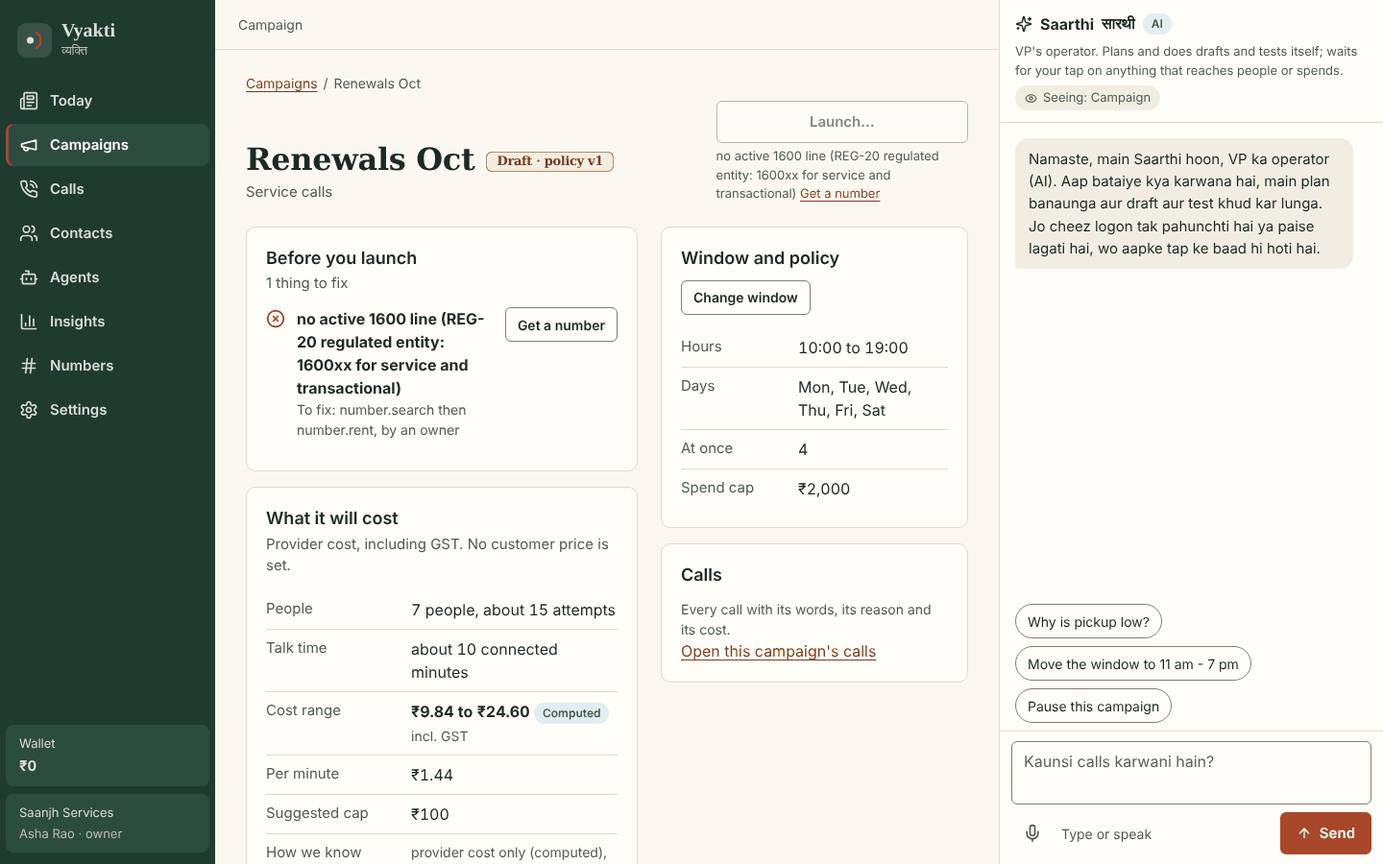
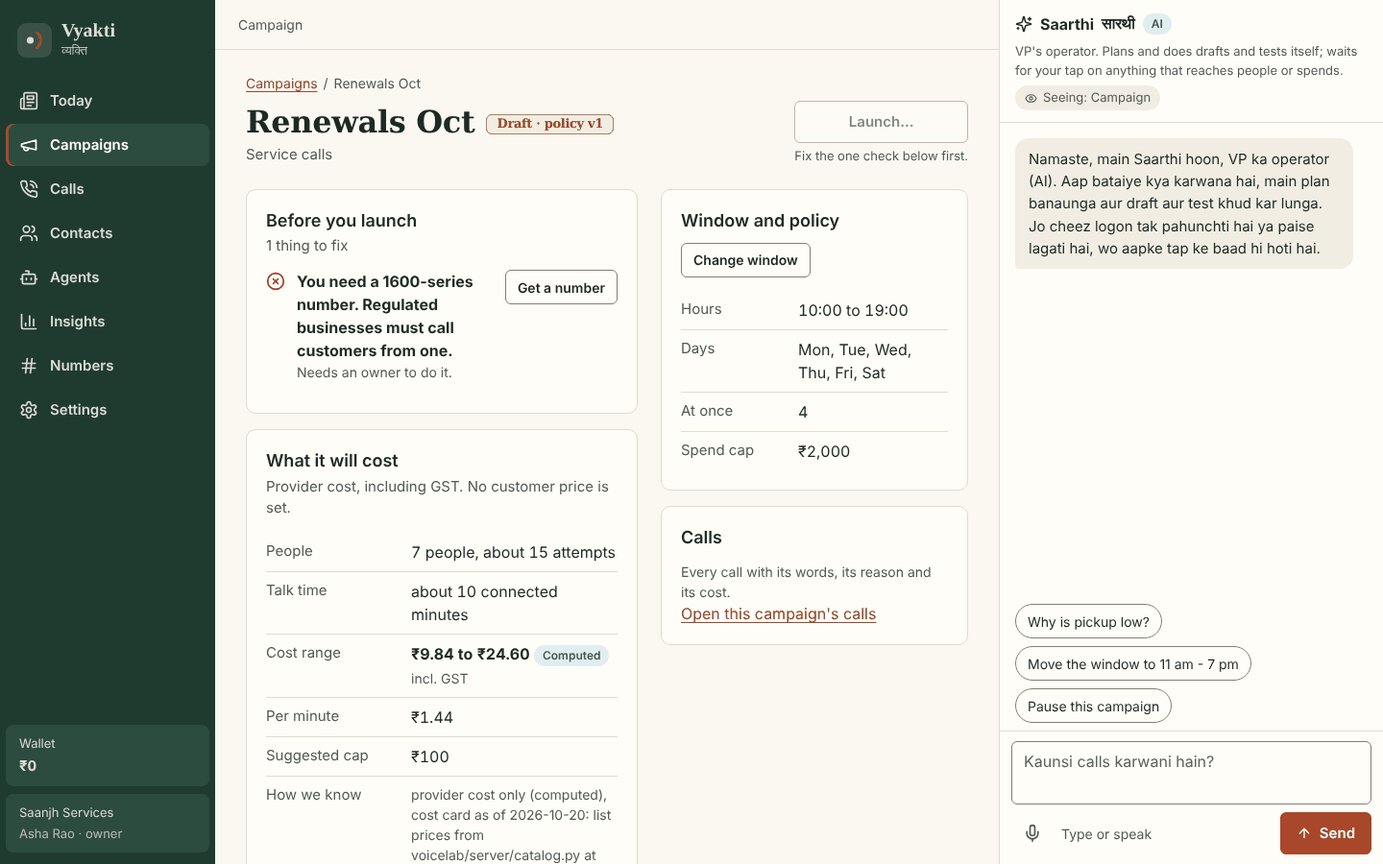
Web: copy pass, no developer text on any screen (tool ids, argument names, codes, milli-units), with a browser test that scans every screen
Claude-Session: https://claude.ai/code/session_014EmCLozX1VcXabqUjBazhN

diff --git a/product/web/src/labels.ts b/product/web/src/labels.ts
@@ -1,0 +1,93 @@
+// Plain words for what the server says in developer terms. Rule: no tool id, raw argument name, internal code or milli-unit ever
+// reaches a person. Everything here is a fallback for text the server has not yet made human; the server's own plain text wins.
+import { inr, phone as fmtPhone } from './format.ts';
+import type { Blocker } from './types.ts';
+
+/** A short human title per tool, for approval cards and receipts. `ask` = what the card asks, `done` = what the receipt says. */
+export const TOOL_LABEL: Record<string, { ask: string; done: string }> = {
+  'wallet.topup': { ask: 'Add money to the wallet', done: 'Money added to the wallet' },
+  'audience.create': { ask: 'Save an audience', done: 'Audience saved' },
+  'source.commit': { ask: 'Import this list', done: 'List imported' },
+  'campaign.launch': { ask: 'Launch the campaign', done: 'Campaign launched' },
+  'campaign.pause': { ask: 'Pause the campaign', done: 'Campaign paused' },
+  'campaign.resume': { ask: 'Resume the campaign', done: 'Campaign resumed' },
+  'campaign.stop': { ask: 'Stop the campaign', done: 'Campaign stopped' },
+  'campaign.draft': { ask: 'Save the campaign draft', done: 'Campaign draft saved' },
+  'campaign.window.widen': { ask: 'Widen the calling window', done: 'Calling window widened' },
+  'campaign.window.narrow': { ask: 'Narrow the calling window', done: 'Calling window narrowed' },
+  'policy.window.set': { ask: 'Change the calling hours', done: 'Calling hours changed' },
+  'version.publish': { ask: 'Publish this agent', done: 'Agent published' },
+  'brief.edit': { ask: 'Change the agent', done: 'Agent changed' },
+  'stack.set': { ask: 'Choose a voice stack', done: 'Voice stack chosen' },
+  'agent.create': { ask: 'Create an agent', done: 'Agent created' },
+  'number.rent': { ask: 'Rent a number', done: 'Number requested' },
+  'member.invite': { ask: 'Invite a teammate', done: 'Invitation sent' },
+  'member.role.set': { ask: 'Change a teammate\'s role', done: 'Role changed' },
+  'apikey.create': { ask: 'Create an API key', done: 'API key created' },
+  'apikey.revoke': { ask: 'Revoke an API key', done: 'API key revoked' },
+  'memory.policy.set': { ask: 'Change what is remembered', done: 'Memory setting changed' },
+  'dpdp.request.execute': { ask: 'Carry out a data request', done: 'Data request carried out' },
+  'fact.forget': { ask: 'Forget a remembered fact', done: 'Fact forgotten' },
+  'fact.approve': { ask: 'Approve a remembered fact', done: 'Fact approved' },
+  'proposal.accept': { ask: 'Test this change on real calls', done: 'Test started' },
+  'proposal.probe': { ask: 'Simulate this change', done: 'Change simulated' },
+  'operator.brain.set': { ask: 'Switch the brain', done: 'Brain switched' },
+  'operator.autonomy.raise': { ask: 'Let Saarthi draft and test on its own', done: 'Saarthi can draft and test on its own' },
+  'operator.autonomy.lower': { ask: 'Ask before every draft and test', done: 'Saarthi now asks first' },
+  'knowledge.ingest': { ask: 'Add a knowledge source', done: 'Knowledge source added' },
+  'brand.update': { ask: 'Change the brand details', done: 'Brand details saved' },
+  'contact.merge': { ask: 'Merge two records of one person', done: 'Records merged' },
+  'contact.unsuppress': { ask: 'Allow calling this person again', done: 'Person can be called again' },
+  'contact.suppress': { ask: 'Stop calling this person', done: 'Person will not be called' },
+  'cap.raise': { ask: 'Raise a spend cap', done: 'Spend cap raised' },
+  'cap.lower': { ask: 'Lower a spend cap', done: 'Spend cap lowered' },
+  'test.simulate': { ask: 'Run a practice call', done: 'Practice call run' },
+  'monitor.create': { ask: 'Turn on a monitor', done: 'Monitor turned on' },
+};
+export const toolAsk = (tool: string, fallback: string) => TOOL_LABEL[tool]?.ask ?? fallback;
+export const toolDone = (tool: string, fallback: string) => TOOL_LABEL[tool]?.done ?? fallback;
+
+const FIELD: Record<string, string> = { inrMilli: 'Amount', capInrMilli: 'Spend cap', e164: 'Phone number', phone: 'Phone number', name: 'Name', email: 'Email', role: 'Role', level: 'Level', note: 'Note', title: 'Title', text: 'Text', brain: 'Brain', enabled: 'Switched on', stackId: 'Voice stack', scope: 'Scope', evidence: 'Where it came from', requestedBy: 'Asked by', suppress: 'Keep the number suppressed', window: 'Calling window', days: 'Days', ranges: 'Hours', start: 'From', end: 'To', concurrency: 'Calls at once', category: 'Kind of call', audienceName: 'Audience name', consentPurpose: 'Consent recorded for', scopes: 'Access', undoMinutes: 'Undo window (minutes)' };
+const UUID = /^[0-9a-f]{8}-[0-9a-f]{4}-[0-9a-f]{4}-[0-9a-f]{4}-[0-9a-f]{12}$/i;
+const words = (k: string) => { const w = k.replace(/([a-z])([A-Z])/g, '$1 $2').replace(/[_.]+/g, ' ').toLowerCase(); return w.charAt(0).toUpperCase() + w.slice(1); };
+export const fieldLabel = (path: string): string => { const last = path.split('.').pop() ?? path; return FIELD[last] ?? words(last); };
+
+/** One argument as a person reads it: rupees for milli-units, a formatted phone, Yes/No, never a raw id. */
+export function fieldValue(path: string, v: unknown): string | null {
+  const last = path.split('.').pop() ?? path;
+  if (v == null) return null;
+  if (typeof v === 'string' && UUID.test(v)) return null;           // an internal id says nothing to a person
+  if (typeof v === 'number' && /Milli$/.test(last)) return inr(v);
+  if (typeof v === 'boolean') return v ? 'Yes' : 'No';
+  if (typeof v === 'string' && /^\+?\d{10,13}$/.test(v.replace(/[\s-]/g, ''))) return fmtPhone(v.replace(/[\s-]/g, ''));
+  if (typeof v === 'string' && /^\d{4}-\d{2}-\d{2}T/.test(v)) return new Date(v).toLocaleString('en-IN', { dateStyle: 'medium', timeStyle: 'short' });
+  if (typeof v === 'string') return v;
+  if (typeof v === 'number') return String(v);
+  if (Array.isArray(v)) return v.map(x => (typeof x === 'object' && x ? Object.entries(x as object).map(([k, y]) => `${fieldLabel(k)} ${fieldValue(k, y) ?? ''}`.trim()).join(', ') : String(x))).join('; ');
+  if (typeof v === 'object') return Object.entries(v as object).map(([k, y]) => `${fieldLabel(k)}: ${fieldValue(k, y) ?? ''}`).join(' · ');
+  return String(v);
+}
+
+/** Launch blockers in plain words, with where to fix them. The server's `fix` text is never shown. */
+export function blockerCopy(b: Blocker): { text: string; to?: { label: string; href: string } } {
+  const m = b.message;
+  switch (b.code) {
+    case 'no_line': {
+      const s = /no active (\S+) line/.exec(m)?.[1];
+      const text = s === '1600' ? 'You need a 1600-series number. Regulated businesses must call customers from one.'
+        : s === '140' ? 'You need a 140-series number for promotional calls.'
+        : s === 'ten_digit' ? 'You need a ten-digit number for these calls.' : 'You need an active phone line for this kind of call.';
+      return { text, to: { label: 'Get a number', href: '/numbers' } };
+    }
+    case 'no_cap': return { text: 'Set a spend cap, so dialling stops by itself at a limit you chose.' };
+    case 'no_version': return { text: 'Choose a published version of the agent for this campaign.', to: { label: 'Open agents', href: '/agents' } };
+    case 'version_not_publishable': return { text: 'Publish the agent again: the saved version has no compiled brief.', to: { label: 'Open agents', href: '/agents' } };
+    case 'beta_stack': return { text: 'This agent\'s voice stack is in beta, so campaigns refuse it. Beta stacks are for test calls only. Choose another stack and publish again.', to: { label: 'Open agents', href: '/agents' } };
+    case 'category_mismatch': { const a = /is for (\w+) calls; this campaign is (\w+)/.exec(m); return { text: a ? `The agent is set up for ${a[1]} calls, but this campaign is for ${a[2]} calls. Use an agent made for ${a[2]} calls.` : 'The agent and the campaign are for different kinds of call.', to: { label: 'Open agents', href: '/agents' } }; }
+    case 'no_audience': return { text: 'Nobody is in the audience to call.', to: { label: 'Open contacts', href: '/contacts' } };
+    case 'window_invalid': return { text: m.charAt(0).toUpperCase() + m.slice(1) + '.' };
+    default: return { text: m.charAt(0).toUpperCase() + m.slice(1) + '.' };
+  }
+}
+
+export const pl = (n: number, one: string, many = one + 's') => `${n} ${n === 1 ? one : many}`;

diff --git a/product/web/src/pages/campaigns.tsx b/product/web/src/pages/campaigns.tsx
@@ -10,6 +10,7 @@ import { agentGet, agentList, audienceList, campaignEstimate, campaignFunnel, ca
 import { count, date, inr } from '../format.ts';
 import { getStack } from '../../../shared/stacks.ts';
 import { prettyCode } from './contacts.tsx';
+import { blockerCopy, pl } from '../labels.ts';
 import type { CampaignDoc, CampaignRow } from '../types.ts';
 
 const STATE: Record<string, [string, 'leaf' | 'marigold' | 'peacock' | 'neutral' | 'brick']> = { running: ['Dialling', 'leaf'], paused: ['Paused', 'marigold'], scheduled: ['Scheduled', 'peacock'], draft: ['Draft', 'marigold'], done: ['Finished', 'neutral'], stopped: ['Stopped', 'neutral'], cancelled: ['Stopped', 'neutral'] };
@@ -90,15 +91,6 @@ function Create() {
 }
 
 // ---------- detail ----------
-function fixTo(fix?: string): { label: string; to: string } | null {
-  if (!fix) return null;
-  if (/number/i.test(fix)) return { label: 'Get a number', to: '/numbers' };
-  if (/wallet|cap\./i.test(fix)) return { label: 'Open the wallet', to: '/settings/billing' };
-  if (/agent|version|publish|stack/i.test(fix)) return { label: 'Open agents', to: '/agents' };
-  if (/consent|source|contact/i.test(fix)) return { label: 'Open contacts', to: '/contacts' };
-  if (/policy|window/i.test(fix)) return { label: 'Open settings', to: '/settings/compliance' };
-  return null;
-}
 function Detail({ id }: { id: string }) {
   const { act, refresh } = useApp();
   const q = useData<CampaignDoc>(['campaign', id], () => campaignGet(id));
@@ -109,7 +101,7 @@ function Detail({ id }: { id: string }) {
   return (
     <div className="page"><Async q={q} what="This campaign" tool="campaign.get" rows={6}>{c => {
       const run = async (tool: string, msg: string) => { const r = await act(tool, { id: c.id }, { describe: msg }); if (r.ok) q.reload(); };
-      const first = c.blockers[0]; const fx = fixTo(first?.fix);
+      const first = c.blockers[0];
       const live = c.state === 'running' || c.state === 'paused';
       return (<>
         <PageHead crumb={<><Link to="/campaigns">Campaigns</Link><span aria-hidden>/</span><span>{c.name}</span></>} title={c.name} pill={<span className={`pill ${c.state === 'running' ? 'pill-live' : c.state === 'draft' ? 'pill-draft' : ''}`}>{STATE[c.state]?.[0] ?? prettyCode(c.state)} · policy v{c.policyVersion}</span>}
@@ -118,13 +110,13 @@ function Detail({ id }: { id: string }) {
             {c.state === 'running' && <Btn icon={<Pause size={16} aria-hidden />} onClick={() => run('campaign.pause', 'Paused. Calls already placed stay as they are.')}>Pause</Btn>}
             {c.state === 'paused' && <Btn icon={<Play size={16} aria-hidden />} onClick={() => run('campaign.resume', 'Resumed.')}>Resume</Btn>}
             {live && <Btn kind="danger" icon={<Square size={14} aria-hidden />} onClick={() => run('campaign.stop', 'Stopped.')}>Stop</Btn>}
-            {c.state === 'draft' && (first ? <Btn disabled reason={first.message} fix={fx ? { label: fx.label, to: fx.to } : undefined}>Launch…</Btn> : <Btn kind="primary" onClick={() => run('campaign.launch', 'Launched.')}>Launch…</Btn>)}
+            {c.state === 'draft' && (first ? <Btn disabled reason={`Fix ${c.blockers.length === 1 ? 'the one check' : `the ${c.blockers.length} checks`} below first.`}>Launch…</Btn> : <Btn kind="primary" onClick={() => run('campaign.launch', 'Launched.')}>Launch…</Btn>)}
           </>} />
         <div className="cols-main">
           <div className="stack">
-            {c.state === 'draft' && <Card><CardHead title="Before you launch" sub={c.blockers.length ? `${c.blockers.length} thing${c.blockers.length === 1 ? '' : 's'} to fix` : 'Nothing is blocking launch'} />
+            {c.state === 'draft' && <Card><CardHead title="Before you launch" sub={c.blockers.length ? `${pl(c.blockers.length, 'thing')} to fix` : 'Nothing is blocking launch'} />
               {c.blockers.length === 0 ? <ul className="checklist"><li className="check check-ok"><CheckCircle2 size={20} aria-hidden /><div className="grow"><strong>Every launch check passed</strong><p className="small muted">Window, line, wallet, cap, agent version and audience were all checked by the server just now.</p></div></li></ul> :
-                <ul className="checklist">{c.blockers.map(b => { const x = fixTo(b.fix); return <li key={b.code} className="check check-fail"><XCircle size={20} aria-hidden /><div className="grow"><strong>{b.message}</strong><span className="sr"> (blocks launch)</span>{b.fix && <p className="small muted">To fix: {b.fix}{b.role ? `, by an ${b.role}` : ''}</p>}</div>{x && <Link to={x.to} className="btn btn-sm" style={{ textDecoration: 'none' }}><span>{x.label}</span></Link>}</li>; })}</ul>}</Card>}
+                <ul className="checklist">{c.blockers.map(b => { const x = blockerCopy(b); return <li key={b.code} className="check check-fail"><XCircle size={20} aria-hidden /><div className="grow"><strong>{x.text}</strong><span className="sr"> (blocks launch)</span>{b.role && <p className="small muted">Needs {/^[aeiou]/.test(b.role) ? 'an' : 'a'} {b.role} to do it.</p>}</div>{x.to && <Link to={x.to.href} className="btn btn-sm" style={{ textDecoration: 'none' }}><span>{x.to.label}</span></Link>}</li>; })}</ul>}</Card>}
             <Card><CardHead title="What it will cost" sub="Provider cost, including GST. No customer price is set." />
               <Async q={est} what="The estimate" tool="campaign.estimate" rows={3}>{e => <dl className="kv">
                 <div><dt>People</dt><dd className="tnum">{count(e.people)} people, about {count(e.attempts)} attempts</dd></div>

diff --git a/product/web/src/pages/calls.tsx b/product/web/src/pages/calls.tsx
@@ -7,7 +7,7 @@ import { Link, useQuery } from '../router.tsx';
 import { Async, Btn, Card, CardHead, Chip, Empty, Kv, NotMeasured, PageHead, Table, Tabs, TextField, type Col } from '../ui.tsx';
 import { callExplain, callGet, callSearch } from '../data.ts';
 import { prettyCode } from './contacts.tsx';
-import { prettyId } from '../catalog.ts';
+import { getStack } from '../../../shared/stacks.ts';
 import { clock, date, dur, inr, ms } from '../format.ts';
 import type { CallDoc, CallExplain, CallRow } from '../types.ts';
 
@@ -69,7 +69,7 @@ function Body({ c }: { c: CallDoc }) {
             <CardHead id="player-h" title="Who spoke when" sub={c.recordingUri ? 'A recording exists for this call. Playback is not built into this page yet.' : 'No recording is stored for this call. The bars are drawn from turn timing, not from audio.'} />
             {c.turns.length > 0 ? <Lanes c={c} at={at} onSeek={seek} /> : <Empty title="Nobody spoke" body="There is no transcript. The reason is in the outcome card." />}
           </Card>
-          {c.turns.length > 0 && <Card aria-labelledby="tr-h"><CardHead id="tr-h" title="What was said" sub="Only what the caller actually heard. Click a line to mark it on the timeline." />
+          {c.turns.length > 0 && <Card aria-labelledby="tr-h"><CardHead id="tr-h" title="What was said" sub="Only what the caller actually heard. Select a line to mark it on the timeline." />
             <ol className="turns">{c.turns.map(t => (
               <li key={t.idx} ref={el => { turnRefs.current[t.idx] = el; }} className={`turn ${t.who}${current === t.idx ? ' now' : ''}`}>
                 <button type="button" onClick={() => setAt(t.startMs ?? 0)} aria-label={`${t.who === 'agent' ? 'Agent' : 'Caller'}${t.startMs != null ? ` at ${clock(t.startMs / 1000)}` : ''}: mark here`}>
@@ -84,7 +84,7 @@ function Body({ c }: { c: CallDoc }) {
             {c.reason && <p className="small muted">What you can do: {c.reason.action}.</p>}
             <div style={{ margin: '10px 0' }}>{outcomeChip(best?.value ?? c.outcome, best?.grade ?? null)}</div>
             {best?.grade === 'ai_guess' && <p className="small muted">An AI guess is not verified by your system or a person.</p>}
-            {c.analysis && <p className="small muted">Analysis: {c.analysis.status.replace(/_/g, ' ')}.</p>}
+            {c.analysis && c.analysis.status !== 'done' && <p className="small muted">{c.analysis.status === 'not_configured' ? 'The written summary and outcome guess are off, because no analysis model is set up on this server.' : c.analysis.status === 'failed' ? `The written summary could not be made${c.analysis.reason ? ` (${c.analysis.reason.replace(/\.$/, '')})` : ''}. The words, timing and cost here are not affected.` : 'This call was not analysed.'}</p>}
             <div style={{ marginTop: 12 }}>{why ? <div className="why"><p><strong>{why.headline}</strong></p>{why.because.map((b, i) => { const ev = b.evidence as { quote?: string; atMs?: number | null }; return <p key={i} className="small">{b.point}{ev.quote && <> <button type="button" className="linklike" onClick={() => seek(ev.atMs ?? null)}>{ev.atMs != null ? clock(ev.atMs / 1000) : 'quote'}</button> <span lang="hi">“{ev.quote}”</span></>}</p>; })}{why.notes.map(n => <p key={n} className="small muted">{n}</p>)}</div> : <Btn size="sm" busy={whyBusy} onClick={explain}>Explain this call</Btn>}</div></Card>
           {quotes.length > 0 && <Card><CardHead title="In their words" /><ul className="quotes">{quotes.map((m, i) => <li key={i}><blockquote lang="hi">“{m.quote}”</blockquote><div className="row"><Chip>{prettyCode(m.kind)}</Chip>{m.atMs != null && <button type="button" className="btn btn-sm" onClick={() => seek(m.atMs)}><Play size={12} aria-hidden /><span>Mark {clock(m.atMs / 1000)}</span></button>}</div></li>)}</ul></Card>}
           <Card><CardHead title="Safety rules that acted" sub="Code, not the model, decides these." />
@@ -93,7 +93,7 @@ function Body({ c }: { c: CallDoc }) {
             {c.handOffs.length > 0 && <p className="small" style={{ marginTop: 8 }}>Handed to {c.handOffs.map(h => h.destination).join(', ')}.</p>}
             {c.tools.length > 0 && <p className="small muted">Tools used: {c.tools.map(t => `${t.name} (${t.status})`).join(', ')}.</p>}</Card>
           <Card><CardHead title="What ran and what it cost" />
-            <Kv rows={[['Ran', c.ran ? <span key="r"><code>{c.ran}</code><br /><span className="small muted">{prettyId(c.ran)}</span></span> : <NotMeasured key="r" />], ['Total', <strong key="t" className="tnum">{inr(c.costTotal, { paise: true })}</strong>], ['Settlement', c.settlement ? prettyCode(c.settlement) : <NotMeasured key="s" />]]} />
+            <Kv rows={[['Voice stack', c.ran ? (getStack(c.ran)?.label ?? 'A stack that is no longer listed') : <NotMeasured key="r" />], ['Total', <strong key="t" className="tnum">{inr(c.costTotal, { paise: true })}</strong>], ['Charged', c.costTotal > 0 ? 'Yes' : 'Not charged']]} />
             {c.costLines.length > 0 && <><hr className="rule" /><Kv rows={c.costLines.map(l => [`${prettyCode(l.component)} · ${l.provider}`, inr(l.inr_milli, { paise: true })] as [string, string])} /></>}</Card>
         </div>
       </div>

diff --git a/product/web/src/operator.tsx b/product/web/src/operator.tsx
@@ -11,6 +11,7 @@ import { Link } from './router.tsx';
 import { Btn, Chip, Figure, HoldButton, Segmented } from './ui.tsx';
 import { TestPanel } from './test-panel.tsx';
 import { pageInfo, RISK_WORDS } from './tools.ts';
+import { fieldLabel, fieldValue, toolAsk, toolDone } from './labels.ts';
 import type { OperatorCard } from './types.ts';
 
 const GREETING = 'Namaste, main Saarthi hoon, VP ka operator (AI). Aap bataiye kya karwana hai, main plan banaunga aur draft aur test khud kar lunga. Jo cheez logon tak pahunchti hai ya paise lagati hai, wo aapke tap ke baad hi hoti hai.';
@@ -118,9 +119,10 @@ export function Dock() {
 
 /** Map the server's card shapes onto the display card. Cards carry the server's message id so a re-emitted plan updates in place. */
 function fromApi(id: string, c: ApiCard): OperatorCard {
-  if (c.type === 'approval') return { id, type: 'approval', title: c.summary, actionId: c.actionId, risk: c.risk.risk, summary: c.risk.label, state: 'waiting', mode: c.mode, approvers: c.approvers, expiresAt: c.expiresAt, diff: c.diff.map(d => ({ field: d.field, before: '', after: typeof d.to === 'string' ? d.to : JSON.stringify(d.to) })), by: c.tool };
-  if (c.type === 'receipt') return { id, type: 'receipt', title: c.text, outcome: c.status, by: c.tool, state: c.status === 'confirmed' ? 'approved' : c.status === 'unknown' ? 'stale' : 'failed' };
-  return { id, type: 'plan', title: c.goal, body: c.footer, steps: c.steps.map(s => ({ label: `${s.tool}${s.why ? ': ' + s.why : ''}${s.reason ? ` (${s.reason})` : ''}`, risk: s.risk ?? 'draft', when: s.runs === 'now' ? 'now' : 'waits', done: s.status === 'done', refused: s.runs === 'refused' })) };
+  if (c.type === 'approval') return { id, type: 'approval', title: toolAsk(c.tool, 'Approve this change'), actionId: c.actionId, risk: c.risk.risk, summary: c.risk.label, state: 'waiting', mode: c.mode, approvers: c.approvers, expiresAt: c.expiresAt,
+    diff: c.diff.map(d => ({ field: fieldLabel(d.field), after: fieldValue(d.field, d.to) })).filter((d): d is { field: string; after: string } => !!d.after), body: undefined };
+  if (c.type === 'receipt') return { id, type: 'receipt', title: c.status === 'confirmed' ? toolDone(c.tool, 'Done') : c.status === 'not_executed' ? `${toolAsk(c.tool, 'That')} did not run` : 'The result is not known', body: c.status === 'confirmed' ? undefined : c.text.replace(/^Not done: /, ''), outcome: c.status, state: c.status === 'confirmed' ? 'approved' : c.status === 'unknown' ? 'stale' : 'failed' };
+  return { id, type: 'plan', title: c.goal, body: c.footer, steps: c.steps.map(s => ({ label: `${toolAsk(s.tool, 'A step')}${s.why ? ': ' + s.why : ''}${s.reason ? ` (${s.reason})` : ''}`, risk: s.risk ?? 'draft', when: s.runs === 'now' ? 'now' : 'waits', done: s.status === 'done', refused: s.runs === 'refused' })) };
 }
 
 function Msg({ m }: { m: ThreadMsg }) {
@@ -160,7 +162,7 @@ export function Card({ c }: { c: OperatorCard }) {
       {c.body && <p className="small">{c.body}</p>}
       {c.quote && <blockquote className="small" style={{ margin: 0, paddingLeft: 10, borderLeft: '3px solid var(--peacock)' }} lang="hi">“{c.quote}”</blockquote>}
       {c.metric && <Figure m={c.metric} />}
-      {c.steps && <ol className="steps">{c.steps.map((s, i) => <li key={i}><span className="num">{s.done ? <Check size={13} aria-hidden /> : i + 1}</span><span>{s.label} {s.refused ? <Chip tone="brick">refused</Chip> : <Chip tone={s.when === 'now' ? 'leaf' : 'terra'}>{s.when === 'now' ? `${s.risk}, runs now` : `${s.risk}, waits for you`}</Chip>}</span></li>)}</ol>}
+      {c.steps && <ol className="steps">{c.steps.map((s, i) => <li key={i}><span className="num">{s.done ? <Check size={13} aria-hidden /> : i + 1}</span><span>{s.label} {s.refused ? <Chip tone="brick">refused</Chip> : <Chip tone={s.when === 'now' ? 'leaf' : 'terra'}>{s.when === 'now' ? 'Runs now' : 'Waits for your tap'}</Chip>}</span></li>)}</ol>}
       {c.diff && <div>{c.diff.map((d, i) => <div className="diffrow" key={i}><strong>{d.field}</strong><span>{d.before ? <><s>{d.before}</s> → </> : null}<ins>{d.after}</ins></span>{d.reason && <span className="small muted">{d.reason}</span>}</div>)}</div>}
       {c.progress && <div><div className="meter-bar" role="progressbar" aria-label={c.progress.label} aria-valuenow={c.progress.pct ?? undefined}><span className="meter-fill tone-peacock" style={{ transform: `scaleX(${(c.progress.pct ?? 0) / 100})` }} /></div><p className="small muted">{c.progress.label}</p></div>}
       {c.type === 'question' && c.options && (
@@ -178,7 +180,7 @@ export function Card({ c }: { c: OperatorCard }) {
       {st.state === 'failed' && <p className="hint hint-bad" role="alert">Not executed: {st.note}. Nothing was changed.</p>}
       {st.state === 'unknown' && <p className="hint hint-bad" role="alert">Result unknown: {st.note}. VP did not retry.</p>}
       {c.href && <Link to={c.href} className="small">Open the page</Link>}
-      <p className="ocard-foot">{[c.by && `by ${c.by}`, c.provenance].filter(Boolean).join(' · ')}</p>
+      {c.provenance && <p className="ocard-foot">{c.provenance}</p>}
     </article>
   );
 }

diff --git a/product/web/src/pages/today.tsx b/product/web/src/pages/today.tsx
@@ -8,9 +8,10 @@ import { Link } from '../router.tsx';
 import { Async, Btn, Card, CardHead, Chip, Empty, Meter, NotMeasured, PageHead, Skeleton } from '../ui.tsx';
 import { ago, count, date, inr, plural, time } from '../format.ts';
 import { RISK_WORDS } from '../tools.ts';
+import { toolAsk } from '../labels.ts';
 import type { Brief, CampaignRow } from '../types.ts';
 
-const ACTION_WORDS: Record<string, string> = { 'brief.edit': 'drafts', 'agent.create': 'drafts', 'stack.set': 'drafts', 'audience.create': 'drafts', 'source.commit': 'drafts', 'test.simulate': 'tests', 'test.browser_call': 'tests', 'campaign.pause': 'guarded pauses', 'campaign.stop_at_cap': 'guarded pauses', 'contact.suppress_after_opt_out': 'guarded opt-outs' };
+const ACTION_WORDS: Record<string, [string, string]> = { 'brief.edit': ['draft', 'drafts'], 'agent.create': ['draft', 'drafts'], 'stack.set': ['draft', 'drafts'], 'audience.create': ['draft', 'drafts'], 'source.commit': ['draft', 'drafts'], 'test.simulate': ['test', 'tests'], 'test.browser_call': ['test', 'tests'], 'campaign.pause': ['guarded pause', 'guarded pauses'], 'campaign.stop_at_cap': ['guarded pause', 'guarded pauses'], 'contact.suppress_after_opt_out': ['guarded opt-out', 'guarded opt-outs'] };
 
 export default function Today() {
   const { me, hasTool, review, act, refresh } = useApp();
@@ -48,7 +49,7 @@ export default function Today() {
                   <CardHead id="needs-h" title="Needs you" sub={b.needsTap.n ? `${count(b.needsTap.n)} waiting. Safety first, then deadlines, then impact.` : undefined} />
                   {b.needsTap.n === 0 && b.issues.n === 0 ? <Empty title="Kuch pending nahi" body={`VP did ${count(b.changed.n)} ${b.changed.n === 1 ? 'thing' : 'things'} on its own. Nothing is waiting on you.`} action={<Link to="/settings/activity">See activity</Link>} /> : (
                     <ul className="needs">
-                      {b.needsTap.items.map(a => {
+                      {groupNeeds(b.needsTap.items).map(({ a, n }) => {
                         const w = RISK_WORDS[a.risk] ?? { label: a.risk, line: '' };
                         return (
                           <li key={a.id} className="need">
@@ -56,7 +57,7 @@ export default function Today() {
                               <div className="row"><Chip tone={a.risk === 'spend' || a.risk === 'external' ? 'terra' : 'marigold'}>{w.label}</Chip>{a.expires_at && <span className="small muted">expires {date(a.expires_at, true)}</span>}</div>
                               <p className="need-title">{a.summary ?? a.tool}</p>
                             </div>
-                            <Btn kind="primary" size="sm" onClick={() => review({ actionId: a.id, tool: a.tool, summary: a.summary ?? a.tool, risk: a.risk, expiresAt: a.expires_at })}>Review</Btn>
+                            <Btn kind="primary" size="sm" onClick={() => review({ actionId: a.id, tool: a.tool, summary: a.summary ?? toolAsk(a.tool, 'Approve this change'), risk: a.risk, expiresAt: a.expires_at })}>Review</Btn>
                           </li>
                         );
                       })}
@@ -107,10 +108,16 @@ export default function Today() {
   );
 }
 
+function groupNeeds(items: Brief['needsTap']['items']) {
+  const m = new Map<string, { a: Brief['needsTap']['items'][number]; n: number }>();
+  for (const a of items) { const k = a.tool + '|' + a.summary; const g = m.get(k); if (g) g.n++; else m.set(k, { a, n: 1 }); }
+  return [...m.values()];
+}
+
 function summarise(b: Brief): string {
-  const g: Record<string, number> = {};
-  for (const a of b.changed.byAction) g[ACTION_WORDS[a.action] ?? 'other changes'] = (g[ACTION_WORDS[a.action] ?? 'other changes'] ?? 0) + a.n;
-  return Object.entries(g).map(([k, n]) => `${count(n)} ${k}`).join(', ');
+  const g = new Map<string, [number, [string, string]]>();
+  for (const a of b.changed.byAction) { const w = ACTION_WORDS[a.action] ?? ['other change', 'other changes']; const k = w[0]; g.set(k, [(g.get(k)?.[0] ?? 0) + a.n, w]); }
+  return [...g.values()].map(([n, w]) => `${count(n)} ${n === 1 ? w[0] : w[1]}`).join(', ');
 }
 
 function nextAction(b: Brief, camps: CampaignRow[]): { title: string; why: string; label: string; href: string } | null {

diff --git a/product/web/src/approval.tsx b/product/web/src/approval.tsx
@@ -1,5 +1,7 @@
 // The approval sheet: what, why, impact, who, expiry. Only a deliberate hold (or two presses) approves; model text never does.
-import { useEffect } from 'react';
+import { useEffect, useState } from 'react';
+import { listActions } from './api.ts';
+import { fieldLabel, fieldValue, toolAsk } from './labels.ts';
 import { AlertTriangle, ShieldCheck } from 'lucide-react';
 import { useApp, undoLine } from './store.tsx';
 import { Btn, Chip, HoldButton, Sheet } from './ui.tsx';
@@ -8,6 +10,14 @@ import { date } from './format.ts';
 
 export function ApprovalSheet() {
   const { pending: p, decide, closePending, me } = useApp();
+  const [args, setArgs] = useState<[string, string][]>([]);
+  const pid = p?.actionId;
+  useEffect(() => {
+    if (!pid) { setArgs([]); return; }
+    let live = true;
+    listActions('proposed').then(rows => { const a = rows.find(r => r.id === pid); if (live && a && a.args && typeof a.args === 'object') setArgs(Object.entries(a.args as Record<string, unknown>).map(([k, v]) => [fieldLabel(k), fieldValue(k, v)] as [string, string | null]).filter((x): x is [string, string] => !!x[1])); }).catch(() => {});
+    return () => { live = false; };
+  }, [pid]);
   const confirmed = p?.state === 'done' && p.outcome && 'status' in p.outcome && p.outcome.status === 'confirmed';
   // A confirmed approval closes itself shortly after saying so, so what it produced (a secret, a page change) is not hidden behind it.
   useEffect(() => { if (!confirmed) return; const t = setTimeout(closePending, 900); return () => clearTimeout(t); }, [confirmed, closePending]);
@@ -21,7 +31,8 @@ export function ApprovalSheet() {
     <Sheet title={done ? 'Result' : 'Approve to continue'} onClose={closePending}>
       <div className="stack-s">
         <div className="row"><Chip tone={p.risk === 'spend' || p.risk === 'external' ? 'terra' : 'marigold'} icon={<ShieldCheck size={13} aria-hidden />}>{w.label}</Chip><span className="small muted">Asked by VP · expires {date(p.expiresAt, true)}</span></div>
-        <p style={{ fontSize: '1.0625rem', fontWeight: 600 }}>{p.summary}</p>
+        <p style={{ fontSize: '1.0625rem', fontWeight: 600 }}>{toolAsk(p.tool, p.summary)}</p>
+        {args.length > 0 && <dl className="kv small">{args.map(([k, v]) => <div key={k}><dt>{k}</dt><dd>{v}</dd></div>)}</dl>}
         <p className="muted">{w.line} {undoLine(p.risk)}</p>
       </div>
       {!done && !allowed && (

diff --git a/product/web/src/stack-picker.tsx b/product/web/src/stack-picker.tsx
@@ -7,6 +7,7 @@ import * as api from './api.ts';
 import { Btn, Chip, Figure, NotMeasured, Segmented } from './ui.tsx';
 import { inr } from './format.ts';
 import { prettyId } from './catalog.ts';
+const CRED: Record<string, string> = { GEMINI: 'Gemini', AZURE_OPENAI: 'Azure OpenAI', AZURE_SPEECH: 'Azure Speech', OPENROUTER: 'OpenRouter', SARVAM: 'Sarvam' };
 import { useApp } from './store.tsx';
 
 export const BETA_REASON = 'Beta stacks run test calls only: the dial gate refuses them for any call to a real person until their risks are cleared and the stack is marked available.';
@@ -63,7 +64,7 @@ function StackCard({ s, selected, price, onPick }: { s: VoiceStack; selected: bo
           <div className="row" style={{ gap: 6, marginTop: 6 }}>
             <Chip tone="peacock">{s.kind === 's2s' ? 'Speech to speech' : 'Cascade'}</Chip>
             <Chip tone={s.status === 'available' ? 'leaf' : 'marigold'} title={s.status === 'beta' ? BETA_REASON : undefined}>{s.status === 'available' ? 'Available' : 'Beta: test calls only'}</Chip>
-            {s.requires?.map(r => <Chip key={r} icon={<KeyRound size={11} aria-hidden />} title={`Needs the ${r} credential on the voice runtime`}>{r.toLowerCase()}</Chip>)}
+            {s.requires?.map(r => <Chip key={r} icon={<KeyRound size={11} aria-hidden />} title={`Needs the ${CRED[r] ?? r} credential on the voice runtime`}>{CRED[r] ?? r} key</Chip>)}
           </div>
         </div>
       </div>

diff --git a/product/web/src/ui.tsx b/product/web/src/ui.tsx
@@ -43,7 +43,7 @@ export function Grade({ g }: { g: string }) { const [l, t] = GRADE[g] ?? [g, 'ne
 /** A number with how we know it: value, grade, n, date, source. Vendor and measured figures never share a style. */
 export function Figure({ m, label }: { m: Metric | null | undefined; label?: string }) {
   if (!m) return <span className="fig"><span className="fig-v dotted">Not measured yet</span></span>;
-  if (m.grade === 'not_measured') return <span className="fig">{label && <span className="fig-l">{label}</span>}<span className="fig-v dotted nm" tabIndex={0} title={m.source ?? 'No measurement exists yet'}>Not measured</span><Grade g="not_measured" />{m.source && <span className="sr">{m.source}</span>}</span>;
+  if (m.grade === 'not_measured') return <span className="fig">{label && <span className="fig-l">{label}</span>}<span className="fig-v dotted nm" tabIndex={0} title={m.source ?? 'No measurement exists yet'}>Not measured</span>{m.source && <span className="sr">{m.source}</span>}</span>;
   return (
     <span className="fig">
       {label && <span className="fig-l">{label}</span>}

diff --git a/product/web/src/types.ts b/product/web/src/types.ts
@@ -74,7 +74,7 @@ export interface CallDoc {
   turns: CallTurn[]; moments: { source: string; kind: string; atMs: number | null; note: string | null; quote: string | null }[];
   safety: { seq: number; rule: string; action: string; detail: string }[]; tools: { seq: number; name: string; status: string }[]; handOffs: { destination: string; status: string }[];
   outcomes: { value: string; grade: string; source: string }[]; costTotal: number; costLines: { component: string; provider: string; inr_milli: number; unit: string; quantity: number }[]; settlement: string | null;
-  analysis: { status: string; summary?: string } | null; totalMs: number;
+  analysis: { status: string; summary?: string; reason?: string } | null; totalMs: number;
 }
 export interface CallExplain { headline: string; because: { point: string; evidence: Record<string, unknown> }[]; outcome: { value: string; grade: string; note: string | null } | null; notes: string[] }
 

diff --git a/product/web/src/pages/settings.tsx b/product/web/src/pages/settings.tsx
@@ -225,7 +225,7 @@ function Integrations() {
 
 function Activity() {
   const q = useData<ActivityRow[]>('activity', activityList);
-  const cols: Col<ActivityRow>[] = [{ key: 't', label: 'When', render: a => date(a.at, true) }, { key: 's', label: 'What', primary: true, render: a => <>{a.line}<br /><code className="small">{a.action}</code></> }];
+  const cols: Col<ActivityRow>[] = [{ key: 't', label: 'When', render: a => date(a.at, true) }, { key: 's', label: 'What', primary: true, render: a => a.line }];
   return <Card><CardHead title="What VP did" sub="Every draft, test and approved action, with who did it." />
     <Async q={q} what="Activity" tool="activity.list" empty={d => d.length === 0 ? <Empty title="Nothing yet" body="Everything that changes something is written here." /> : null}>{d => <Table caption="Activity ledger" cols={cols} rows={d} rowKey={r => r.id} />}</Async></Card>;
 }

diff --git a/product/web/src/data.ts b/product/web/src/data.ts
@@ -177,7 +177,7 @@ export async function callGet(id: string): Promise<CallDoc> {
     recordingUri: c.recordingUri, ran: c.runManifest?.stackId ?? c.runManifest?.combinationId ?? null, turns,
     moments: arr<any>(c.moments).map(m => ({ source: m.source, kind: m.kind, atMs: m.at_ms, note: m.note, quote: m.quote })), safety: arr(c.safety), tools: arr(c.tools), handOffs: arr(c.handOffs),
     outcomes: arr(c.outcomes), costTotal: c.cost?.totalInrMilli ?? 0, costLines: arr(c.cost?.lines), settlement: c.cost?.settlement?.action ?? (typeof c.cost?.settlement === 'string' ? c.cost.settlement : null),
-    analysis: a ? { status: a.status, summary: a.summary } : null, totalMs };
+    analysis: a ? { status: a.status, summary: a.summary, reason: a.reason } : null, totalMs };
 }
 export const callExplain = (id: string) => run<CallExplain>('call.explain', { conversationId: id });
 

diff --git a/product/web/src/pages/numbers.tsx b/product/web/src/pages/numbers.tsx
@@ -46,7 +46,7 @@ export default function Numbers() {
     setBusy(false);
     if (!r.ok) return;
     if (r.result.verified) setV({ stage: 'verified', phone: v.phone, note: 'This phone is verified as yours.' });
-    else setV({ ...v, note: `${r.result.reason ?? 'That code is not right.'}${r.result.triesLeft != null ? ` ${r.result.triesLeft} tries left.` : ''}` });
+    else setV({ ...v, note: `${r.result.reason ?? 'That code is not right.'}${r.result.triesLeft != null ? ` ${r.result.triesLeft} ${r.result.triesLeft === 1 ? 'try' : 'tries'} left.` : ''}` });
   };
   const tryRing = async () => {
     setBusy(true);
